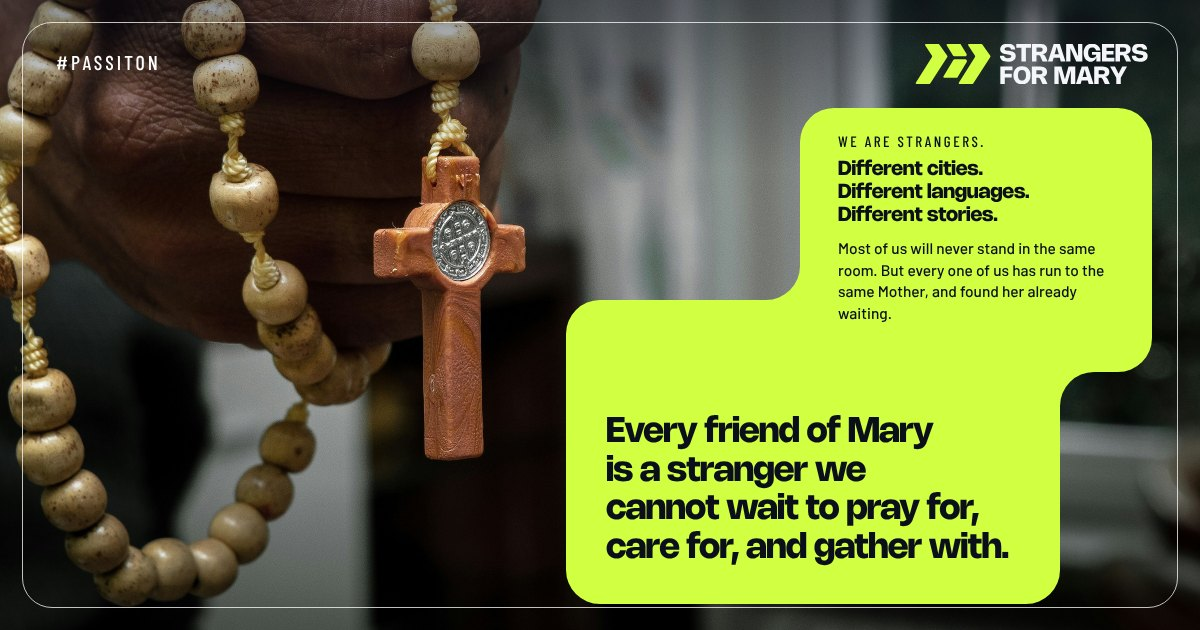
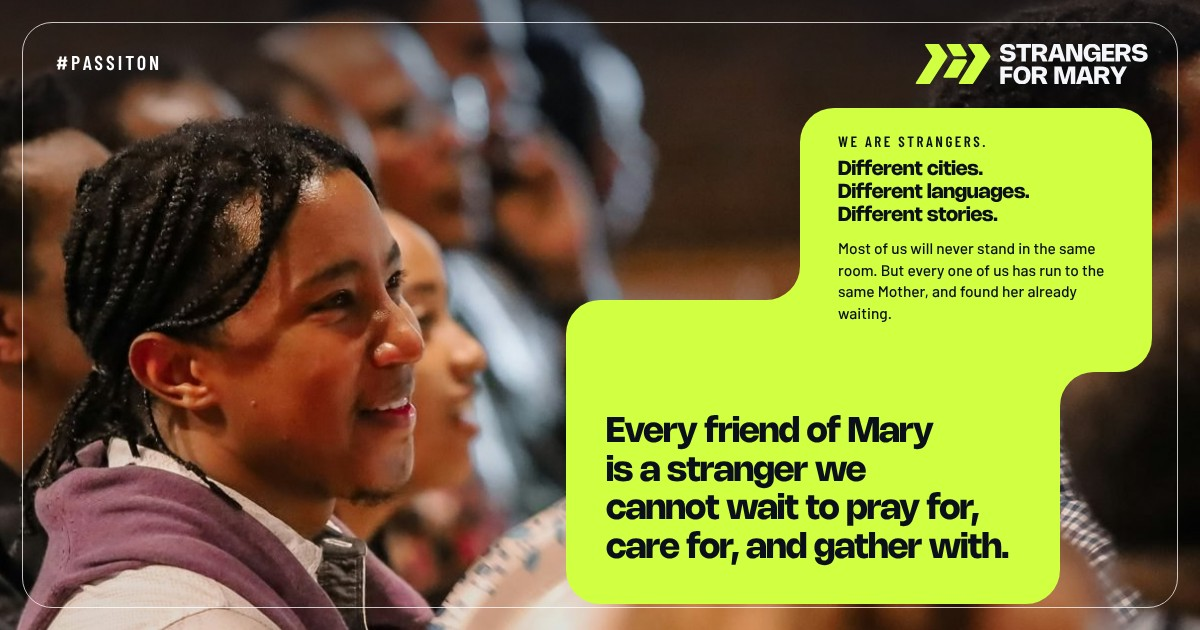
New share image and descriptions, longer backend timeout for applications (prompt 05, phase 6)

diff --git a/Website/sfm-website-build-kit/assets/social/og-source.html b/Website/sfm-website-build-kit/assets/social/og-source.html
@@ -5,23 +5,18 @@
 @font-face{font-family:'Barlow Condensed';src:url('https://cdn.jsdelivr.net/npm/@fontsource/barlow-condensed@5.0.13/files/barlow-condensed-latin-500-normal.woff2');font-weight:500}
 *{box-sizing:border-box}html,body{margin:0}
 body{width:1200px;height:630px;position:relative;overflow:hidden;background:#0A0F1A;font-family:Barlow,sans-serif;color:#0A0F1A}
-.photo{position:absolute;inset:0;background:url('og-photo-rosary-crucifix.jpg') center/cover}
+.photo{position:absolute;inset:0;background:url('og-photo-hero-church.jpg') 0% 38%/135% auto}
 .shade{position:absolute;left:0;right:0;top:0;height:170px;background:linear-gradient(to bottom,rgba(10,15,26,.45),rgba(10,15,26,0))}
 .frame{position:absolute;inset:22px;border:1.5px solid rgba(255,255,255,.75);border-radius:30px}
 .tag{position:absolute;left:56px;top:50px;font-family:'Barlow Condensed';font-weight:500;font-size:20px;letter-spacing:3px;color:#fff}
 .logo{position:absolute;right:52px;top:44px;height:40px}
 svg.shape{position:absolute;inset:0}
-.list{position:absolute;left:838px;right:80px;top:132px;display:flex;flex-direction:column;gap:8px}
-.eyebrow{font-family:'Barlow Condensed';font-weight:500;font-size:15px;letter-spacing:2.5px;text-transform:uppercase}
-.lead{margin:0;font-family:Nohemi;font-weight:700;font-size:20px;line-height:1.15;letter-spacing:-0.01em}
-.body{margin:2px 0 0;font-size:15.5px;font-weight:500;line-height:1.4}
-
-h1{position:absolute;left:606px;bottom:62px;margin:0;font-family:Nohemi;font-weight:700;font-size:35px;line-height:1.1;white-space:nowrap;letter-spacing:-0.025em}
+h1{position:absolute;left:56px;bottom:56px;margin:0;font-family:Nohemi;font-weight:700;font-size:52px;line-height:1.04;letter-spacing:-0.03em;color:#fff;max-width:620px}
+h1 span{color:#D1FF42}
+.fade{position:absolute;inset:0;background:linear-gradient(to right,rgba(10,15,26,.82),rgba(10,15,26,.45) 52%,rgba(10,15,26,0) 72%),linear-gradient(to top,rgba(10,15,26,.9),rgba(10,15,26,.6) 50%,rgba(10,15,26,0))}
 </style></head><body>
-<div class="photo"></div><div class="shade"></div><div class="frame"></div>
+<div class="photo"></div><div class="fade"></div><div class="shade"></div><div class="frame"></div>
 <span class="tag">#PASSITON</span>
 <img class="logo" src="../brand/sfm-logo-lime-on-dark.svg">
-<svg class="shape" width="1200" height="630"><path d="M834,108 H1118 A34,34 0 0 1 1152,142 V338 A34,34 0 0 1 1118,372 H1094 A34,34 0 0 0 1060,406 V570 A34,34 0 0 1 1026,604 H600 A34,34 0 0 1 566,570 V334 A34,34 0 0 1 600,300 H766 A34,34 0 0 0 800,266 V142 A34,34 0 0 1 834,108 Z" fill="#D1FF42"/></svg>
-<div class="list"><span class="eyebrow">We are strangers.</span><p class="lead">Different cities.<br>Different languages.<br>Different stories.</p><p class="body">Most of us will never stand in the same room. But every one of us has run to the same Mother, and found her already waiting.</p></div>
-<h1>Every friend of Mary<br>is a stranger we<br>cannot wait to pray for,<br>care for, and gather with.</h1>
+<h1>Every friend of Mary is a stranger <span>we cannot wait to pray for, care for, and gather with.</span></h1>
 </body></html>

diff --git a/Website/web/src/shared/lib/appsScript.ts b/Website/web/src/shared/lib/appsScript.ts
@@ -34,8 +34,15 @@ async function readJson(res: Response): Promise<AppsScriptReply> {
   }
 }
 
-/** POSTs a sign-up. Any network failure, timeout or odd reply comes back as { ok: false, error: "server" }. */
-export async function appsScriptPost(payload: Record<string, unknown>): Promise<AppsScriptReply> {
+/**
+ * POSTs a sign-up or an application. Any network failure, timeout or odd reply comes back as
+ * { ok: false, error: "server" }. Applications pass a longer timeout: saving a CV to Drive and
+ * emailing the team can take Apps Script well over ten seconds.
+ */
+export async function appsScriptPost(
+  payload: Record<string, unknown>,
+  { timeoutMs = TIMEOUT_MS }: { timeoutMs?: number } = {},
+): Promise<AppsScriptReply> {
   const cfg = config();
   if (cfg === "mock") return mockAppsScript.post(payload);
   if (!cfg) {
@@ -48,7 +55,7 @@ export async function appsScriptPost(payload: Record<string, unknown>): Promise<
       headers: { "Content-Type": "application/json" },
       body: JSON.stringify({ ...payload, secret: cfg.secret }),
       redirect: "follow",
-      signal: AbortSignal.timeout(TIMEOUT_MS),
+      signal: AbortSignal.timeout(timeoutMs),
     });
     return await readJson(res);
   } catch (err) {

diff --git a/Website/web/src/app/api/apply/route.ts b/Website/web/src/app/api/apply/route.ts
@@ -18,6 +18,12 @@ import { appsScriptPost } from "@/shared/lib/appsScript";
 
 // Node is the default (and, with Cache Components, the only) runtime, which Buffer needs.
 
+/** Seconds the host may let this route run: the backend's Drive upload and email are slow. */
+export const maxDuration = 60;
+
+/** How long to wait for the backend, inside maxDuration. */
+const BACKEND_TIMEOUT_MS = 45_000;
+
 const schema = createApplicationSchema(roles);
 const limiter = createRateLimiter({ limit: 5, windowMs: 60_000 });
 
@@ -112,7 +118,7 @@ export async function POST(request: Request) {
     { fileName: parsed.data.cv?.name ?? `cv.${kind}`, mimeType: CV_TYPES[kind], base64: Buffer.from(bytes).toString("base64") },
     new Date(),
   );
-  const result = await appsScriptPost(payload);
+  const result = await appsScriptPost(payload, { timeoutMs: BACKEND_TIMEOUT_MS });
 
   if (result.ok) return reply({ ok: true });
 

diff --git a/Website/web/src/shared/lib/appsScript.test.ts b/Website/web/src/shared/lib/appsScript.test.ts
@@ -25,6 +25,15 @@ describe("appsScript client", () => {
     expect(init.signal).toBeInstanceOf(AbortSignal);
   });
 
+  it("waits 10 seconds by default, longer when asked", async () => {
+    configure();
+    vi.stubGlobal("fetch", vi.fn().mockImplementation(async () => Response.json({ ok: true })));
+    const timeout = vi.spyOn(AbortSignal, "timeout");
+    await appsScriptPost({ action: "signup" });
+    await appsScriptPost({ action: "apply" }, { timeoutMs: 45_000 });
+    expect(timeout.mock.calls).toEqual([[10_000], [45_000]]);
+  });
+
   it("puts the action and secret in the GET query", async () => {
     configure();
     const fetchMock = vi.fn().mockResolvedValue(Response.json({ ok: true, time: "now" }));

diff --git a/Website/web/src/app/share-image.test.ts b/Website/web/src/app/share-image.test.ts
@@ -9,3 +9,11 @@ describe("share image alt text", () => {
     expect(readFileSync(resolve(__dirname, file), "utf8").trim()).toBe(strings.common.meta.share.imageAlt);
   });
 });
+
+// The share image is a designed asset from the kit (assets/social/og-source.html), never drawn in code.
+describe("share image", () => {
+  const kitImage = readFileSync(resolve(__dirname, "../../../sfm-website-build-kit/assets/social/sfm-og-1200x630.jpg"));
+  it.each(["opengraph-image.jpg", "twitter-image.jpg"])("%s is the kit's sfm-og-1200x630.jpg", (file) => {
+    expect(readFileSync(resolve(__dirname, file)).equals(kitImage)).toBe(true);
+  });
+});

diff --git a/Website/web/src/app/api/apply/route.test.ts b/Website/web/src/app/api/apply/route.test.ts
@@ -81,6 +81,7 @@ describe("POST /api/apply", () => {
       joinAsStranger: true,
       cv: { fileName: "mary-cv.pdf", mimeType: "application/pdf" },
     });
+    expect(fetchMock.mock.calls[0][1].signal).toBeInstanceOf(AbortSignal);
     expect(sent.questions).toHaveLength(3);
     expect(sent.questions[0]).toBe("Why are you ideal for this role?");
     expect(Buffer.from(sent.cv.base64, "base64").toString()).toBe(new TextDecoder().decode(PDF));

diff --git a/Website/sfm-website-build-kit/prompts/05-volunteer-roles-and-applications.md b/Website/sfm-website-build-kit/prompts/05-volunteer-roles-and-applications.md
@@ -4,7 +4,7 @@ Paste everything below the line into Claude Code or Cursor, opened at the reposi
 
 ---
 
-The build kit in `Website/sfm-website-build-kit/` has been updated. Apply these changes to `Website/web/`, following `Website/web/CLAUDE.md` and the architecture you already set up (feature-sliced folders, SCSS modules first, `strings.ts` and `tokens.ts` as the single sources of truth). Work through the phases in order, run lint, tests and build at the end of each phase, commit on a new branch `volunteer-roles`, and stop for review after each phase.
+The build kit in `Website/sfm-website-build-kit/` has been updated. Apply these changes to `Website/web/`, following `Website/web/CLAUDE.md` and the architecture you already set up (feature-sliced folders, SCSS modules first, `strings.ts` and `tokens.ts` as the single sources of truth). Work through the phases in order (six of them), run lint, tests and build at the end of each phase, commit on a new branch `volunteer-roles`, and stop for review after each phase.
 
 ## What changed, in one paragraph
 
@@ -117,5 +117,15 @@ Submitting:
 - Pages test: `/volunteer` and `/volunteer/roles` render; `/build-with-us` redirects; no page contains "places still open" or "20 places".
 - `npm run lint`, `npm run test` and `npm run build` pass. Check both new pages at 320, 390, 768, 1280, 1440 and 1920px, with the keyboard only, and with a screen reader on the form.
 - After deploying, send one real application with a small PDF and confirm the row in **Volunteer Applications**, the CV in the Drive folder and the email to `notify_email`. Then delete them.
+
+## Phase 6: New share image
+
+The social share image now uses the Home hero photo (young people smiling together in church) with only the headline over it: "Every friend of Mary is a stranger" in white and "we cannot wait to pray for, care for, and gather with." in lime, the logo top right and "#PASSITON" top left. The lime panel and the "We are strangers" text are gone.
+
+- `src/app/opengraph-image.jpg` and `src/app/twitter-image.jpg` have already been replaced with `assets/social/sfm-og-1200x630.jpg`. Check that both files are identical to the kit's copy; if not, copy it over both.
+- The alt text is now: `Young people smiling together in church. Text: Every friend of Mary is a stranger we cannot wait to pray for, care for, and gather with. Strangers for Mary.` It has already been updated in `opengraph-image.alt.txt`, `twitter-image.alt.txt`, `strings.common.meta.share.imageAlt` and `content/strings-master.md`. Confirm all four match and that `share-image.test.ts` passes.
+- The share description and the Home meta description now use the definition from the strategy: `Strangers for Mary is a network of Marian devotees who carry one another to Jesus. We pray. We give. We gather. Pass it on.` It has already been updated in `strings.common.meta.share.description`, `strings.common.meta.home.description` and the strings master. The share title stays `Strangers for Mary | Never carry your faith alone`. After building, check the built HTML of `/` shows the new text in `description`, `og:description` and `twitter:description`.
+- Do not generate the image in code. Its source is `assets/social/og-source.html` (photo `og-photo-hero-church.jpg`); `og-photo-rosary-crucifix.jpg` is no longer used.
+- After deploying, refresh the link in the Facebook Sharing Debugger and the LinkedIn Post Inspector so they drop the old image.
 
 Report what you changed, anything in the design reference you could not match exactly, and any string you had to add that is not in the strings master.

diff --git a/Website/sfm-website-build-kit/README.md b/Website/sfm-website-build-kit/README.md
@@ -10,7 +10,7 @@ Everything Claude Code or Cursor needs to build the pre-launch website exactly a
 | `prompts/01-apps-script-backend.md` | The original prompt for the version 1 backend. Kept for history: the finished version 2 is already in `Website/apps-script/`. |
 | `prompts/03-responsive-header-and-menu.md` | The header on tablets and phones (mark, "Join us", menu button), the full-screen menu, and hiding the header on scroll down and showing it on scroll up. Use on its own if the header is already built. |
 | `prompts/04-update-hero-and-share-image.md` | Paste this if the build has already started: applies the new hero tagline and the social share image and text. |
-| `prompts/05-volunteer-roles-and-applications.md` | **Use this next.** Renames Build With Us to Volunteer, adds the Roles page with one application per role (questions, CV upload, confirmations), updates Home, widens the layout and turns the second half of headlines blue. Deploy the version 2 backend first. |
+| `prompts/05-volunteer-roles-and-applications.md` | **Use this next.** Renames Build With Us to Volunteer, adds the Roles page with one application per role (questions, CV upload, confirmations), updates Home, widens the layout, turns the second half of headlines blue and applies the new share image. Deploy the version 2 backend first. |
 | `prompts/02-nextjs-website.md` | Prompt for the Next.js website: architecture, single sources of truth for strings and design values, hooks, components, pages, forms and phases. |
 | `rules/CLAUDE.md` | Standing rules. Copied to `Website/web/CLAUDE.md` for Claude Code. |
 | `rules/sfm.mdc` | The same rules as a Cursor project rule, copied to `.cursor/rules/sfm.mdc` at the repository root. |
@@ -20,7 +20,7 @@ Everything Claude Code or Cursor needs to build the pre-launch website exactly a
 | `design-reference/` | The approved design for every page, plus the shared header and the closing card and footer. `volunteer.html` and `roles.html` are new; `build-with-us.html` is obsolete and kept only for history. |
 | `assets/brand/` | The original logo and mark files. Use as they are. |
 | `assets/brand/pattern/` | The brand pattern: your original tile and swatches, plus see-through swatches made from the same shape. On the site it is used only on the dark closing card. |
-| `assets/social/` | The image shown when the site is shared on WhatsApp, Facebook, LinkedIn and X (1200 by 630), and the HTML it was made from. |
+| `assets/social/` | The image shown when the site is shared on WhatsApp, Facebook, LinkedIn and X (1200 by 630): the headline over the Home hero photo. `og-source.html` is the HTML it was made from. |
 | `assets/roles/*.pdf` | One description per role, named by role id, for the "Download PDF" buttons. There is deliberately no combined PDF of all roles. |
 | `assets/fonts/Nohemi-Bold.ttf` | The display typeface. |
 | `assets/photos/` | Every photo used on the site, sized for the web. All of them come from `Strangers For Mary/Stock Images`; `CREDITS.json` lists the source file (`image N.jpg`) for each. |

diff --git a/Website/sfm-website-build-kit/content/strings-master.md b/Website/sfm-website-build-kit/content/strings-master.md
@@ -831,15 +831,15 @@ Volunteer application (Roles page):
 
 ### Page titles and descriptions (metadata)
 
-- Home: Strangers for Mary | Never carry your faith alone. Description: Never carry your faith alone. Have strangers pray for your intentions, see your small acts become real help, and gather with Catholics who keep you strong.
+- Home: Strangers for Mary | Never carry your faith alone. Description: Strangers for Mary is a network of Marian devotees who carry one another to Jesus. We pray. We give. We gather. Pass it on.
 
 ### Social sharing (Open Graph and X)
 
 These apply to every page unless a page sets its own title and description above.
 
 - Share title: Strangers for Mary | Never carry your faith alone
-- Share description: Never carry your faith alone. Have strangers pray for your intentions, see your small acts become real help, and gather with Catholics who keep you strong.
-- Share image alt text: A hand holding a wooden rosary with a crucifix. Text: Every friend of Mary is a stranger we cannot wait to pray for, care for, and gather with. We are strangers. Different cities. Different languages. Different stories. Most of us will never stand in the same room. But every one of us has run to the same Mother, and found her already waiting. Strangers for Mary.
+- Share description: Strangers for Mary is a network of Marian devotees who carry one another to Jesus. We pray. We give. We gather. Pass it on.
+- Share image alt text: Young people smiling together in church. Text: Every friend of Mary is a stranger we cannot wait to pray for, care for, and gather with. Strangers for Mary.
 - Site name: Strangers for Mary
 - Our Story: Our Story | Strangers for Mary. Description: It started in 2017 with ten text messages. Why Strangers for Mary began, and why it is coming back stronger.
 - Pray: Pray | Strangers for Mary. Description: A Rosary a day for someone who can never thank you. How intentions move through the network.
